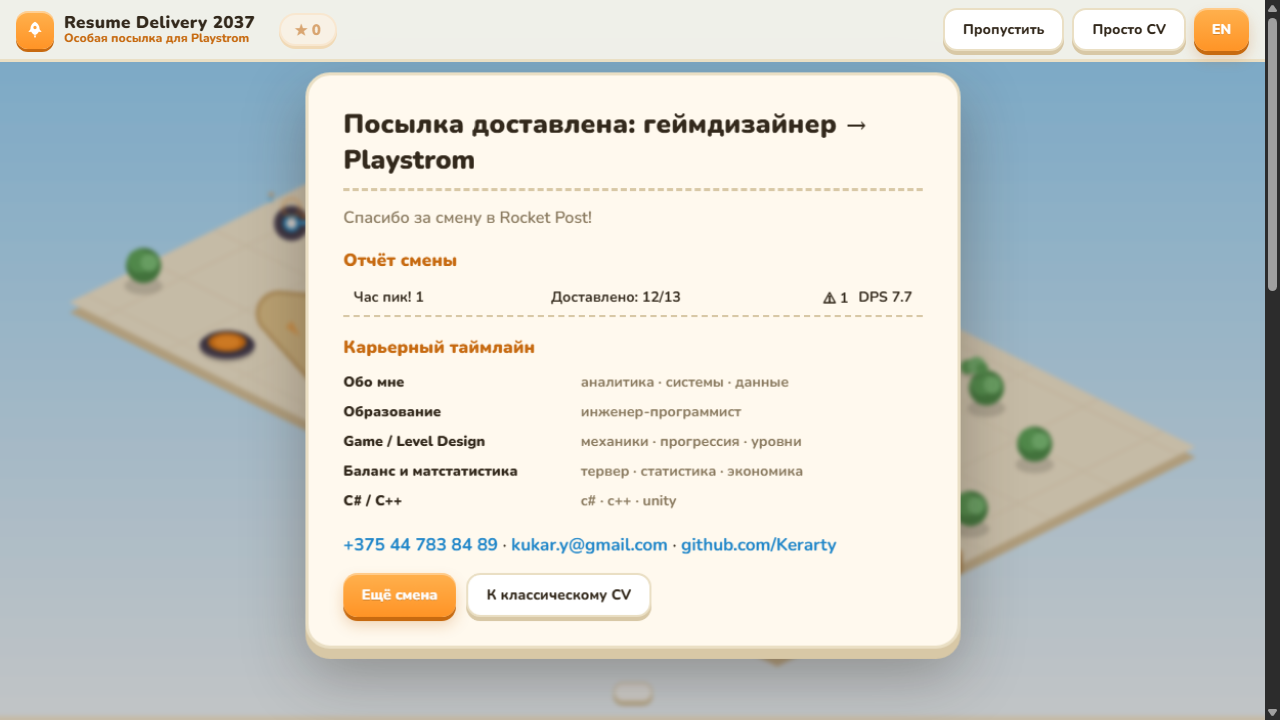
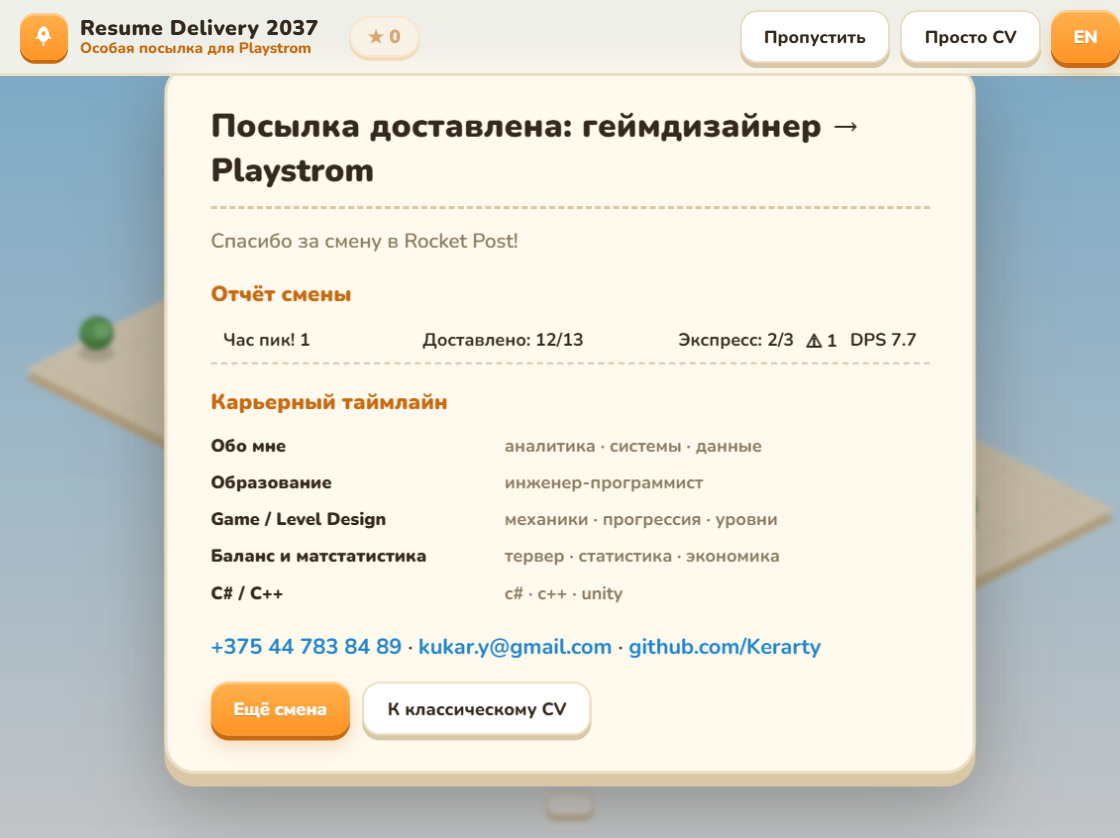
переснимаю скриншоты и описываю приоритетные посылки в доках
В README добавлен кадр листа персонажа, в PLAN.md — статус, фактический стек и список правок по внешнему фидбеку.

diff --git a/PLAN.md b/PLAN.md
@@ -2,7 +2,7 @@
 ### Интерактивное отклик-резюме геймдизайнера для Playstrom
 ### Смесь: «Rocket Post: смена за 3 минуты» (A) + баланс-лаборатория (B)
 
-Статус: в разработке. Предыдущая Unity-версия убрана (история коммитов сохранена).
+Статус: опубликован — [kerarty.github.io/cv-playstrom](https://kerarty.github.io/cv-playstrom/). Предыдущая Unity-версия убрана (история коммитов сохранена).
 
 ## 1. Идея
 
@@ -15,8 +15,8 @@
 3. **Стройка** — очко тратится сразу: клик по круглой площадке у маршрута строит башню этого типа, клик по существующей башне улучшает её (уровень: +35% урона, +10% радиуса, звёздочки-пипсы).
 4. **Типы башен** — определяются посылкой: пушка (Game Design), снайпер (баланс и матстатистика), пулемёт (C#), мортира (проекты), дрон-замедлитель (серия резюме и playables), усилитель соседей (образование).
 5. **Тюнер** (после 3-й, 6-й, 9-й коробки) — 3 очка на урон/скорострельность/радиус всего арсенала; живой предрасчёт: суммарный DPS, число башен, прогноз «сколько прорвётся». Выбор реально меняет волну.
-6. **Час пик** — роботы QuickBox идут по S-маршруту к двери магазина; башни стреляют сами, клик по роботу — буст-выстрел, замедлитель притормаживает рой.
-7. **Мини-отчёт** — «Доставлено X · Помято Y · DPS Z» → следующая коробка.
+6. **Час пик** — роботы QuickBox идут по S-маршруту к двери магазина; башни стреляют сами, клик по роботу — буст-выстрел, замедлитель притормаживает рой. Параллельно по конвейеру едут **приоритетные посылки**: клик до окна выдачи — +1 очко, прозевал — потерянный заказ в отчёте. Управление потоком посылок — та самая связь с *Shipping Store Simulator 2037*.
+7. **Мини-отчёт** — «Доставлено X · Помято Y · Экспресс Z · DPS W» → следующая коробка.
 
 10 коробок (последняя «Контакты»), 3 волны + босс «Легаси-голем». Сессия 3–4 минуты.
 
@@ -30,7 +30,7 @@
 
 ## 5. Стек и структура
 
-Чистый веб без сборки: HTML + CSS + ES-модули, **PixiJS 8.6.6 с CDN** (родной стек кандидата — вся серия предыдущих резюме и playable-ads на JS/PixiJS). Арт — плоский вектор в изометрии: картон, скотч, неон-акценты; палитра — крем/картон + оранжевый Rocket Post против неон-голубого QuickBox.
+Чистый веб без сборки: HTML + CSS + ES-модули, **PixiJS 8** (лежит в репозитории, `js/vendor` — никаких CDN и сборки). Арт — плоский вектор в изометрии: картон, скотч, неон-акценты; палитра — крем/картон + оранжевый Rocket Post против неон-голубого QuickBox.
 
 ```
 index.html        — лендинг + канвас + DOM-оверлеи + секция «Просто CV»
@@ -61,3 +61,11 @@ docs/CV_Yaroslav.pdf
 ## 7. Деплой
 
 GitHub Pages из корня `main` → https://kerarty.github.io/cv-playstrom/. История коммитов ведётся от первой Unity-инициализации (пивот на веб — часть истории проекта).
+
+## 8. Итерация по внешнему фидбеку
+
+1. **Описание репозитория** говорило «Unity 6, WebGL», а стек давно веб — заменено на фактический: HTML/CSS/JS · PixiJS 8.
+2. **Числовые оценки навыков** (92 за баланс, 74 за код) без объяснённой шкалы выглядели произволом — заменены на пары «компетенция → доказательство».
+3. **Скриншоты в README** — добавлены и переснимаются после каждой заметной итерации.
+4. **Связь с игрой студии** — добавлены приоритетные посылки в «час пик»: управление потоком заказов, а не только tower defense.
+5. **Позиционирование** — «Junior → Middle (в прокачке)» заменено на специализацию: игровые системы, баланс и экономика. Уровень объясняют проекты, а не самооценка.

diff --git a/README.md b/README.md
@@ -10,11 +10,15 @@
 
 По конвейеру приезжают посылки — разделы резюме. Кликаешь по коробке — она сканируется, открывает карточку факта, приносит **очко** и открывает новый тип башни. Клик по площадке — меню выбора: построй одну из открытых башен за очко или клик по своей башне — улучши её (уровень даёт +35% урона и +10% радиуса). Типы башен растут из содержимого посылок: пушка из Game Design, снайпер из баланса и матстатистики, пулемёт из C#, мортиры из проектов, дроны-замедлители из серии резюме, усилитель из образования.
 
-В «час пик» волны роботов QuickBox идут по дороге к магазину, а между волнами работает **тюнер баланса**: три очка на урон/скорострельность/радиус арсенала с живым предрасчётом DPS и прогноза прорывов. В финале ракета доставляет посылку «геймдизайнер → Playstrom» с контактами и отчётом смены.
+В «час пик» волны роботов QuickBox идут по дороге к магазину, а по конвейеру параллельно едут **приоритетные посылки**: успей кликнуть до окна выдачи — +1 очко в казну, прозевал — потерянный заказ в отчёте смены. Между волнами работает **тюнер баланса**: три очка на урон/скорострельность/радиус арсенала с живым предрасчётом DPS и прогноза прорывов. В финале ракета доставляет посылку «геймдизайнер → Playstrom» с контактами и отчётом смены.
 
 | Интро | Час пик | Финал с отчётом |
 |---|---|---|
 | ![Интро](docs/images/01-intro.png) | ![Час пик](docs/images/02-tower.png) | ![Финал](docs/images/03-finale.png) |
+
+Классическое резюме живёт прямо на странице — в виде листа персонажа с квестами:
+
+![Лист персонажа: компетенции с доказательствами и квесты-проекты](docs/images/cv-check.png)
 
 Принципы, которые я заложил в отклик:
 
